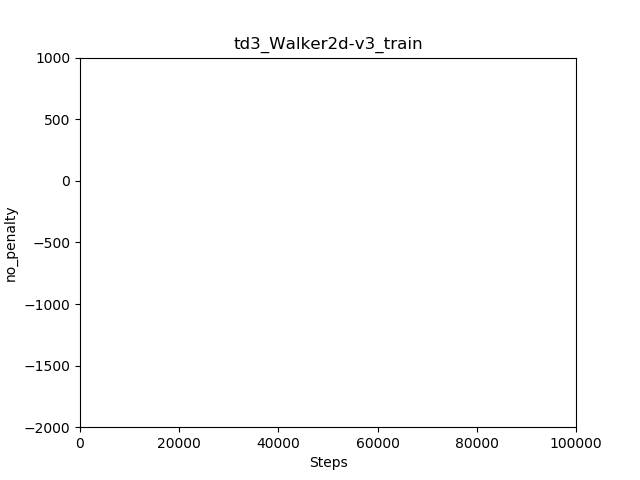
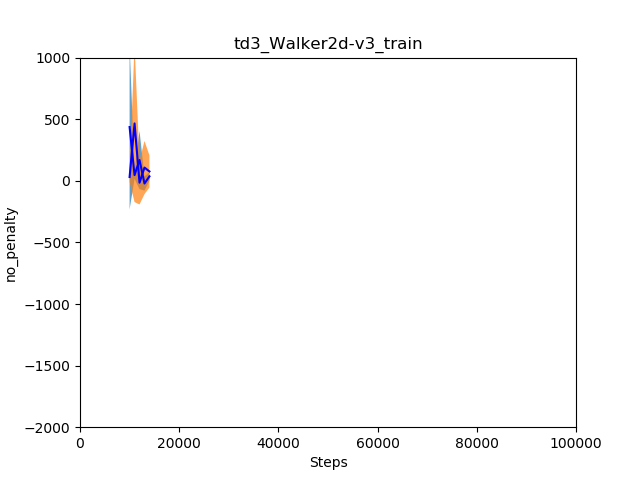
bugfix

Changed region(s): [[0.1875, 0.125, 0.25, 0.4375]]

diff --git a/utils.py b/utils.py
@@ -38,8 +38,12 @@ def plot_with_error_bars(steps, rewards, title, label='Rewards', finished=True):
   plt.title(title)
   plt.xlabel('Steps')
   plt.ylabel(label)
-  plt.xlim((0, MAX_STEPS))
-  plt.ylim((-2000, 1000))
+  min_steps = steps.min()
+  max_steps = steps.max()
+  plt.xlim((min_steps, max_steps))
+  min_reward = (means-conf_ints*1.5).min()
+  max_reward = (means+conf_ints*1.5).min()
+  plt.ylim((min_reward, max_reward))
   if finished:
     plt.savefig(os.path.join('results', title + '.png'))
     plt.close()

diff --git a/td3_run.py b/td3_run.py
@@ -16,7 +16,7 @@ import pdb
 import torch.multiprocessing as mp
 
 
-MAX_STEPS = 15000
+# MAX_STEPS = 15000
 # try: 
 #   mp.set_start_method("spawn")
 # except:
@@ -198,7 +198,7 @@ def compare():
   labels = ['penalty', 'no_penalty']
   # pdb.set_trace()
   multiplot(steps_list, train_rewards, labels, 'td3_'+env_name+'_train')
-  multiplot(steps_list, test_rewards, labels, 'td3_'+env_name+'_train')
+  multiplot(steps_list, test_rewards, labels, 'td3_'+env_name+'_test')
 
 
 SAMPLES = 10
